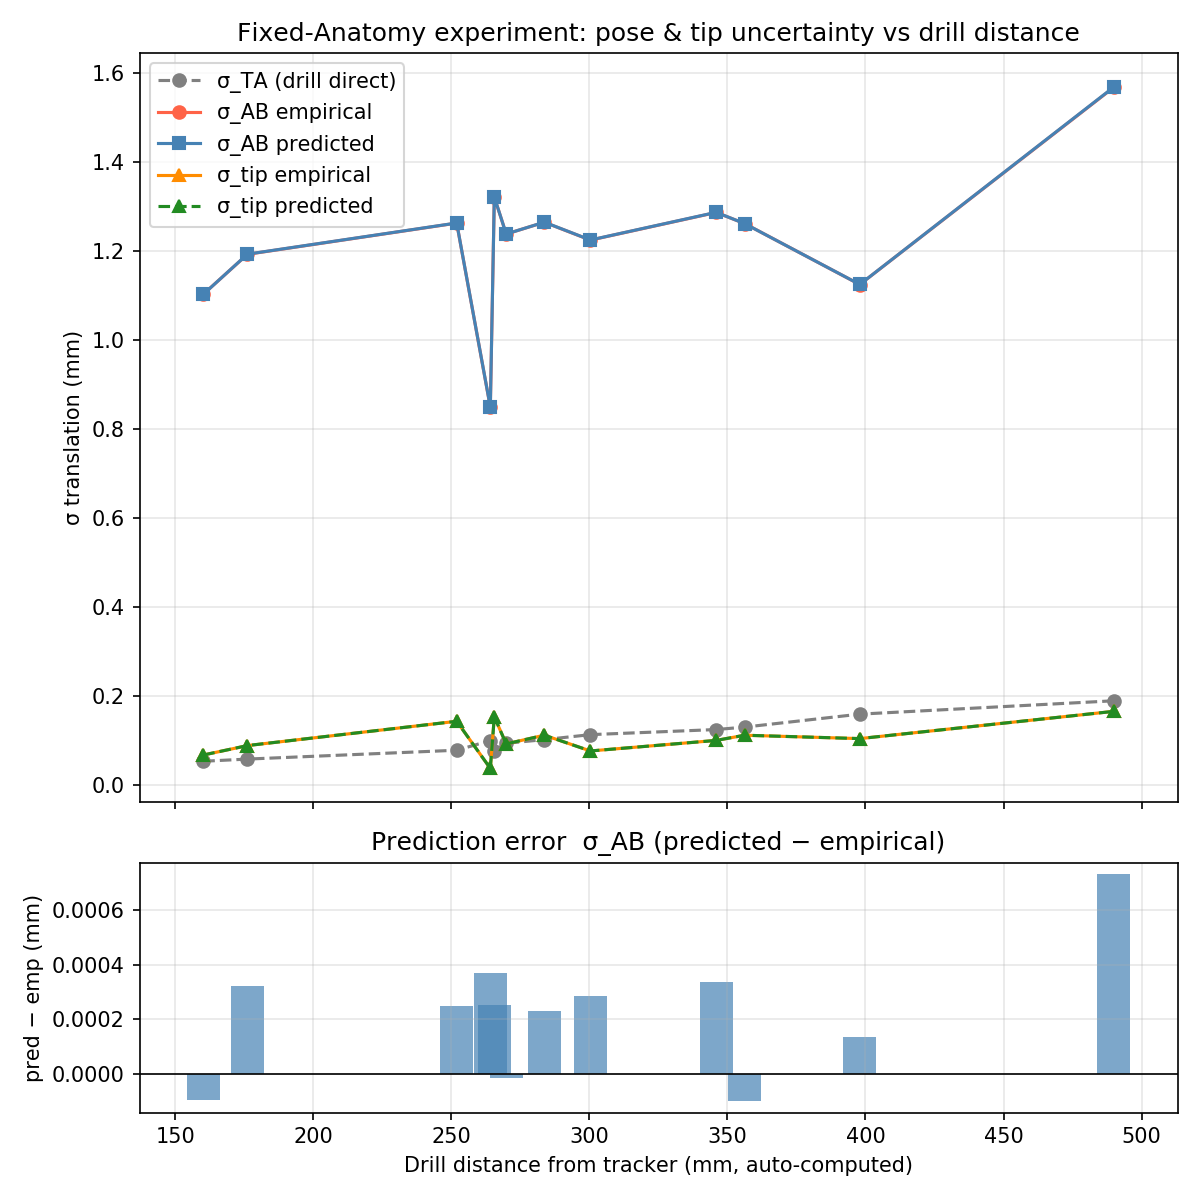
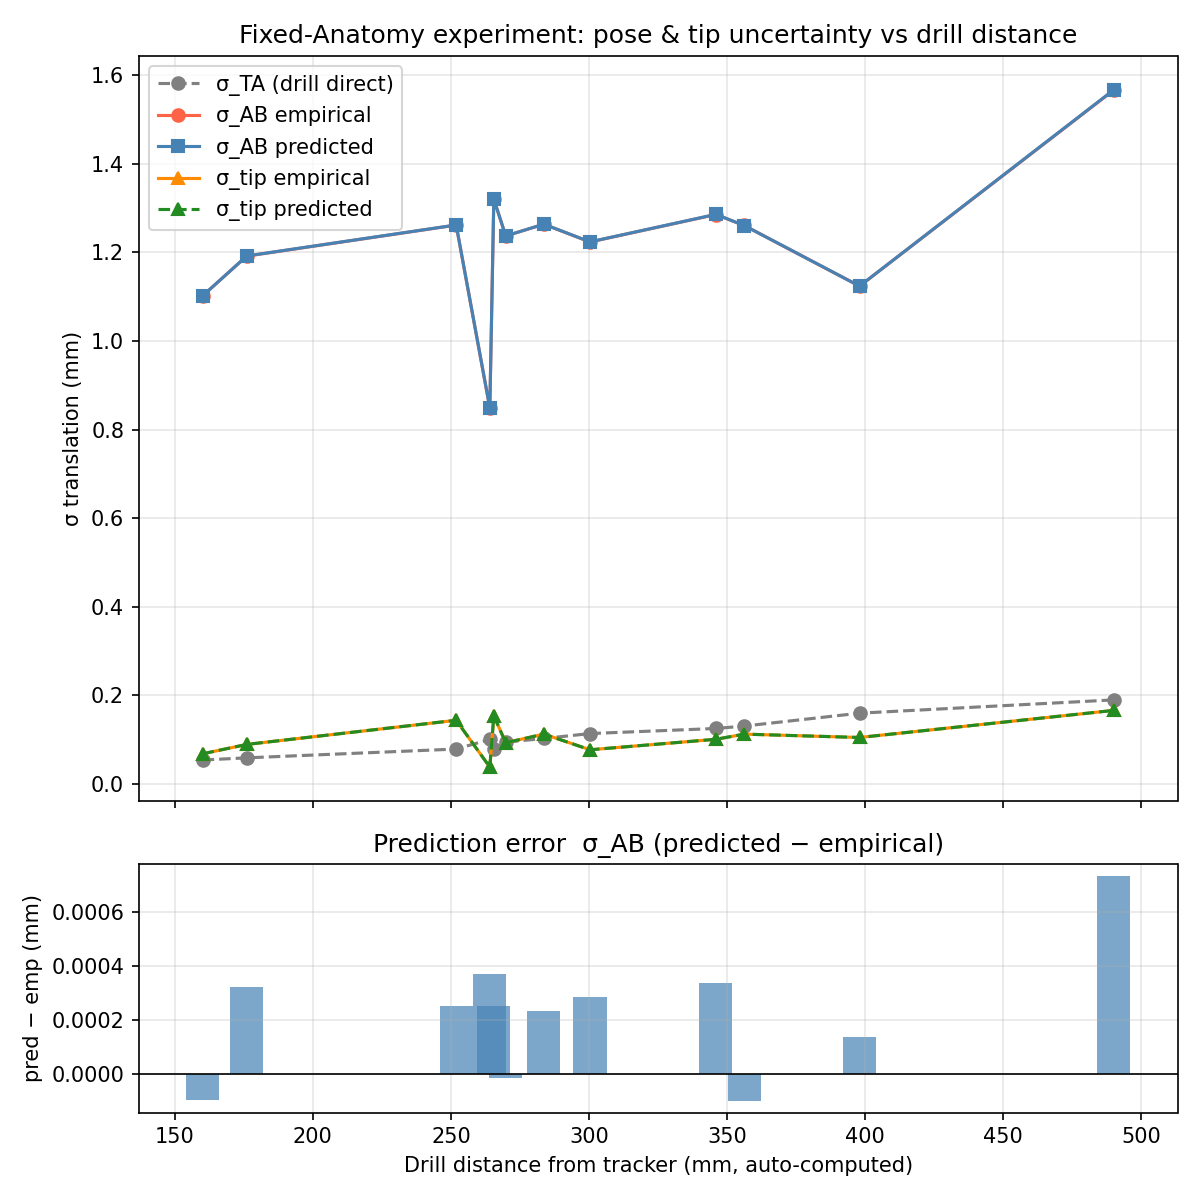
for factor out camera motion.

diff --git a/experiment/exp1_fixed_drill/analyze_ei.py b/experiment/exp1_fixed_drill/analyze_ei.py
@@ -1,0 +1,246 @@
+# Author: X.M. Christine Zhu
+
+"""
+Experiment 1 — Random error estimation via e_i(t) = F_ref(t)^{-1} · b_i(t).
+
+Following Dr. R. H. Taylor's advice for separating random from systematic error.
+
+The idea
+--------
+A naive approach to estimating random error — watching how the Anatomy body's
+measured mean drifts over time — is contaminated by *camera motion*: if the
+tracker camera itself moves, all bodies shift together, making the reference
+body appear to move even when it hasn't.
+
+The remedy is to express each drill marker ball's tracker-frame position
+*relative to the reference body (Anatomy)*:
+
+    e_i(t) = F_ref(t)^{-1} · b_i(t)
+
+where
+    F_ref(t)  = T_TB(t)  — Anatomy pose in the tracker frame at sample t
+    b_i(t)    — drill marker i's position in the tracker frame at sample t
+
+Any rigid camera motion shifts F_ref and b_i identically, so it cancels in
+the ratio. The residual spread of e_i(t) over N samples is a cleaner estimate
+of the *random* error — tracker noise relative to the reference body, with
+camera motion factored out.
+
+Caveat (hardware limitation)
+-----------------------------
+b_i(t) is computed by reprojecting the drill's calibrated local marker
+position through the fitted pose T_TA(t):
+
+    b_i(t) = T_TA(t)[:3,:3] @ p_drill_local_i + T_TA(t)[:3,3]
+
+It is NOT a truly raw, pre-fit ball position — the Atracsys SDK performs an
+internal rigid-body fit before exposing any pose. As a consequence:
+  - e_i(t) = inv(T_TB(t)) @ T_TA(t) @ p_local_i
+           = T_AB(t) @ p_local_i
+    i.e. the drill marker expressed in the anatomy frame via the relative pose.
+  - Anatomy's own markers e_j(t) = p_anatomy_local_j (constant by construction,
+    zero variance) — they are omitted from this analysis for that reason.
+
+What this gives you
+-------------------
+The spread of e_i(t) is the camera-motion-corrected random noise of each drill
+marker's position *in the anatomy frame*. Comparing this to the tracker-frame
+spread (markersA.csv) shows how much camera motion inflated the raw estimate.
+
+Reads
+-----
+  data_fixed_drill/<pos>/bodyA.csv
+  data_fixed_drill/<pos>/bodyB.csv
+  hardware/atracsys/atracsys/geometry_anspoch_drill.json
+
+Writes
+------
+  results_fixed_drill/ei_report.txt
+  results_fixed_drill/fig_ei_sigma_vs_distance.png
+"""
+
+import sys
+import json
+import pathlib
+import numpy as np
+import matplotlib.pyplot as plt
+
+_HERE = pathlib.Path(__file__).resolve().parent
+_EXP  = _HERE.parent
+_ROOT = _EXP.parent
+sys.path.insert(0, str(_EXP))
+
+sys.path.insert(0, str(_ROOT / "src"))
+
+from utils.se3_stats import load_poses_csv, summary_stats, se3_empirical_stats
+from uncertainty_networks.se3 import inv_se3
+
+DATA_DIR    = _HERE / "data_fixed_drill"
+RESULTS_DIR = _HERE / "results_fixed_drill"
+GEOMETRY_DRILL = (
+    _ROOT / "hardware" / "atracsys" / "atracsys" / "core" / "share" / "geometry_anspoch_drill.json"
+)
+
+
+def load_fiducials_m(geometry_path: pathlib.Path) -> np.ndarray:
+    """Load fiducial local positions from geometry JSON, converted mm → m."""
+    with open(geometry_path) as f:
+        geom = json.load(f)
+    return np.array(
+        [[fid["x"], fid["y"], fid["z"]] for fid in geom["fiducials"]],
+        dtype=np.float64,
+    ) * 1e-3
+
+
+def compute_ei(
+    samples_A: np.ndarray,
+    samples_B: np.ndarray,
+    fid_drill_local: np.ndarray,
+) -> np.ndarray:
+    """
+    Compute e_i(t) = F_ref(t)^{-1} · b_i(t) for each drill marker i.
+
+    Parameters
+    ----------
+    samples_A : (N, 4, 4)  drill poses in tracker frame
+    samples_B : (N, 4, 4)  anatomy poses in tracker frame  (= F_ref)
+    fid_drill_local : (n_markers, 3)  drill marker positions in drill frame
+
+    Returns
+    -------
+    ei : (N, n_markers, 3)
+        Each drill marker's position in the anatomy frame, per sample.
+        Equivalent to T_AB(t) applied to each local marker position.
+    """
+    N = min(len(samples_A), len(samples_B))
+    n_markers = fid_drill_local.shape[0]
+    ei = np.zeros((N, n_markers, 3), dtype=np.float64)
+
+    for t in range(N):
+        # Relative pose: drill expressed in anatomy frame
+        T_AB = inv_se3(samples_B[t]) @ samples_A[t]
+        R_AB = T_AB[:3, :3]
+        t_AB = T_AB[:3, 3]
+        for i in range(n_markers):
+            ei[t, i] = R_AB @ fid_drill_local[i] + t_AB
+
+    return ei
+
+
+def marker_sigma_mm(positions: np.ndarray) -> float:
+    """
+    Isotropic-equivalent sigma (mm) of a set of 3D positions.
+
+    Parameters
+    ----------
+    positions : (N, 3)
+    """
+    C = np.cov(positions, rowvar=False)
+    return float(np.sqrt(np.trace(C) / 3.0) * 1000.0)
+
+
+def main():
+    if not GEOMETRY_DRILL.exists():
+        raise FileNotFoundError(f"Geometry file not found: {GEOMETRY_DRILL}")
+
+    fid_drill_local = load_fiducials_m(GEOMETRY_DRILL)
+    n_markers = len(fid_drill_local)
+    print(f"Loaded {n_markers} drill markers.\n")
+
+    RESULTS_DIR.mkdir(parents=True, exist_ok=True)
+
+    meta_path = DATA_DIR / "positions.txt"
+    if not meta_path.exists():
+        raise FileNotFoundError(f"Run collect.py first. Expected: {meta_path}")
+    rows = meta_path.read_text().strip().split("\n")[1:]
+    positions = [{"label": r.split(",", 1)[0].strip()} for r in rows]
+
+    print(
+        f"\n{'Label':<10} {'Dist(mm)':>9} "
+        + "  ".join(f"{'m'+str(k)+' σ_ei(mm)':>12}" for k in range(n_markers))
+        + f"  {'avg σ_ei(mm)':>13}"
+    )
+    print("─" * (10 + 10 + n_markers * 14 + 15))
+
+    report_lines = []
+    dist_list, avg_ei_list = [], []
+
+    for pos in positions:
+        pos_dir = DATA_DIR / pos["label"]
+        if not (pos_dir / "bodyA.csv").exists():
+            print(f"  {pos['label']}: data not found, skipping")
+            continue
+
+        samples_A = load_poses_csv(str(pos_dir / "bodyA.csv"))
+        samples_B = load_poses_csv(str(pos_dir / "bodyB.csv"))
+
+        mean_A, C_A = se3_empirical_stats(samples_A)
+        sA = summary_stats(mean_A, C_A)
+        dist_mm = sA["distance_mm"]
+
+        ei = compute_ei(samples_A, samples_B, fid_drill_local)
+
+        per_marker_sigma = [marker_sigma_mm(ei[:, k, :]) for k in range(n_markers)]
+        avg_sigma = float(np.mean(per_marker_sigma))
+
+        sigma_str = "  ".join(f"{s:>12.4f}" for s in per_marker_sigma)
+        print(f"{pos['label']:<10} {dist_mm:>9.0f}  {sigma_str}  {avg_sigma:>13.4f}")
+
+        report_lines.append(
+            f"{pos['label']} (dist={dist_mm:.0f} mm): "
+            + " ".join(f"m{k}={per_marker_sigma[k]:.4f}mm" for k in range(n_markers))
+            + f" avg={avg_sigma:.4f}mm"
+        )
+        dist_list.append(dist_mm)
+        avg_ei_list.append(avg_sigma)
+
+    (RESULTS_DIR / "ei_report.txt").write_text("\n".join(report_lines))
+    print(f"\nSaved → {RESULTS_DIR / 'ei_report.txt'}")
+
+    # ── Load tracker-frame marker sigmas from markersA.csv for comparison ──
+    tracker_frame_list = []
+    for pos in positions:
+        pos_dir = DATA_DIR / pos["label"]
+        mA_path = pos_dir / "markersA.csv"
+        if not mA_path.exists():
+            tracker_frame_list.append(None)
+            continue
+        data = np.loadtxt(str(mA_path), delimiter=",", skiprows=1)
+        if data.ndim == 1:
+            data = data[np.newaxis, :]
+        markers = data.reshape(-1, n_markers, 3)
+        sigmas = [marker_sigma_mm(markers[:, k, :]) for k in range(n_markers)]
+        tracker_frame_list.append(float(np.mean(sigmas)))
+
+    if len(dist_list) >= 2:
+        order = np.argsort(dist_list)
+        dists   = np.array(dist_list)[order]
+        ei_sigs = np.array(avg_ei_list)[order]
+
+        fig, ax = plt.subplots(figsize=(8, 5))
+        ax.plot(dists, ei_sigs, "o-", color="steelblue",
+                label="avg σ (anatomy frame, camera-motion corrected)")
+
+        # Overlay tracker-frame sigma if available
+        tf_vals = [tracker_frame_list[i] for i in order]
+        if any(v is not None for v in tf_vals):
+            tf_clean = [v if v is not None else np.nan for v in tf_vals]
+            ax.plot(dists, tf_clean, "o--", color="tomato",
+                    label="avg σ (tracker frame, raw)")
+
+        ax.set_xlabel("Drill distance from tracker (mm, auto-computed)")
+        ax.set_ylabel("Average per-marker σ (mm)")
+        ax.set_title(
+            "Drill marker random error: tracker frame vs anatomy frame\n"
+            r"$e_i(t) = F_\mathrm{ref}(t)^{-1} \cdot b_i(t)$"
+        )
+        ax.legend()
+        ax.grid(True, alpha=0.3)
+        fig.tight_layout()
+        out = RESULTS_DIR / "fig_ei_sigma_vs_distance.png"
+        fig.savefig(str(out), dpi=150)
+        print(f"Saved → {out}")
+
+
+if __name__ == "__main__":
+    main()

diff --git a/experiment/exp1_fixed_drill/extract_markers.py b/experiment/exp1_fixed_drill/extract_markers.py
@@ -49,8 +49,8 @@ from utils.se3_stats import load_poses_csv
 
 DATA_DIR = _HERE / "data_fixed_drill"
 
-GEOMETRY_DRILL   = _ROOT / "hardware" / "atracsys" / "atracsys" / "geometry_anspoch_drill.json"
-GEOMETRY_ANATOMY = _ROOT / "hardware" / "atracsys" / "atracsys" / "geometry_anatomy_reference_5_24.json"
+GEOMETRY_DRILL   = _ROOT / "hardware" / "atracsys" / "atracsys" / "core" / "share" / "geometry_anspoch_drill.json"
+GEOMETRY_ANATOMY = _ROOT / "hardware" / "atracsys" / "atracsys" / "core" / "share" / "geometry_anatomy_reference_5_24.json"
 
 
 def load_fiducials_m(geometry_path: pathlib.Path) -> np.ndarray:
